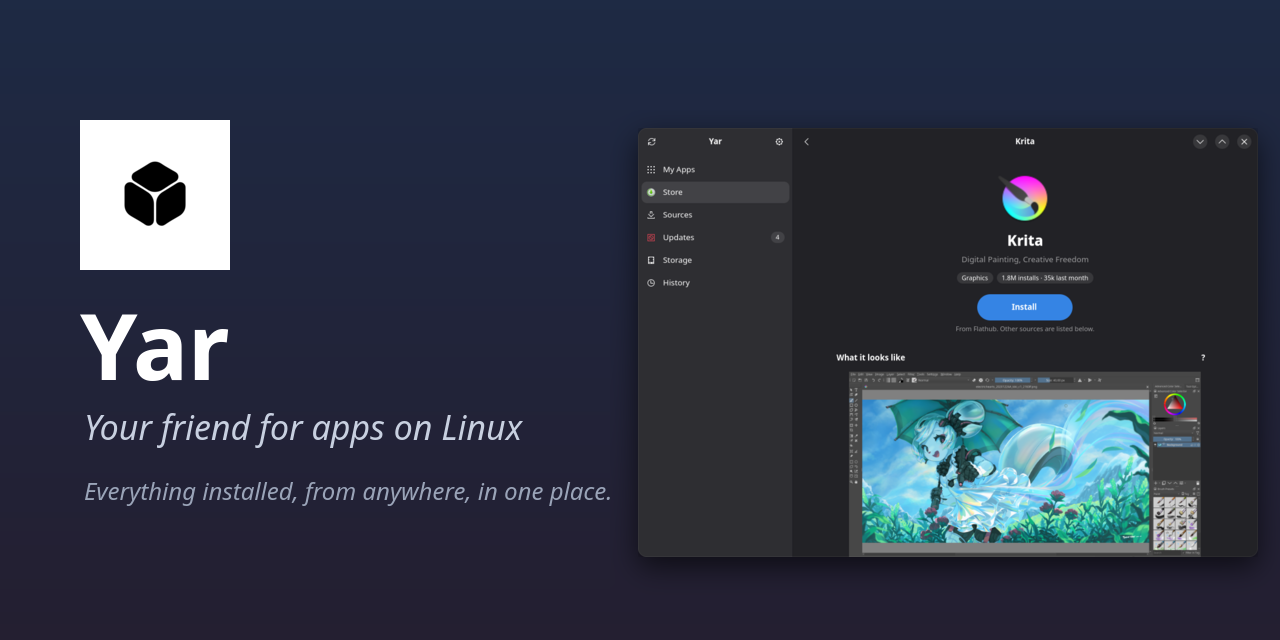
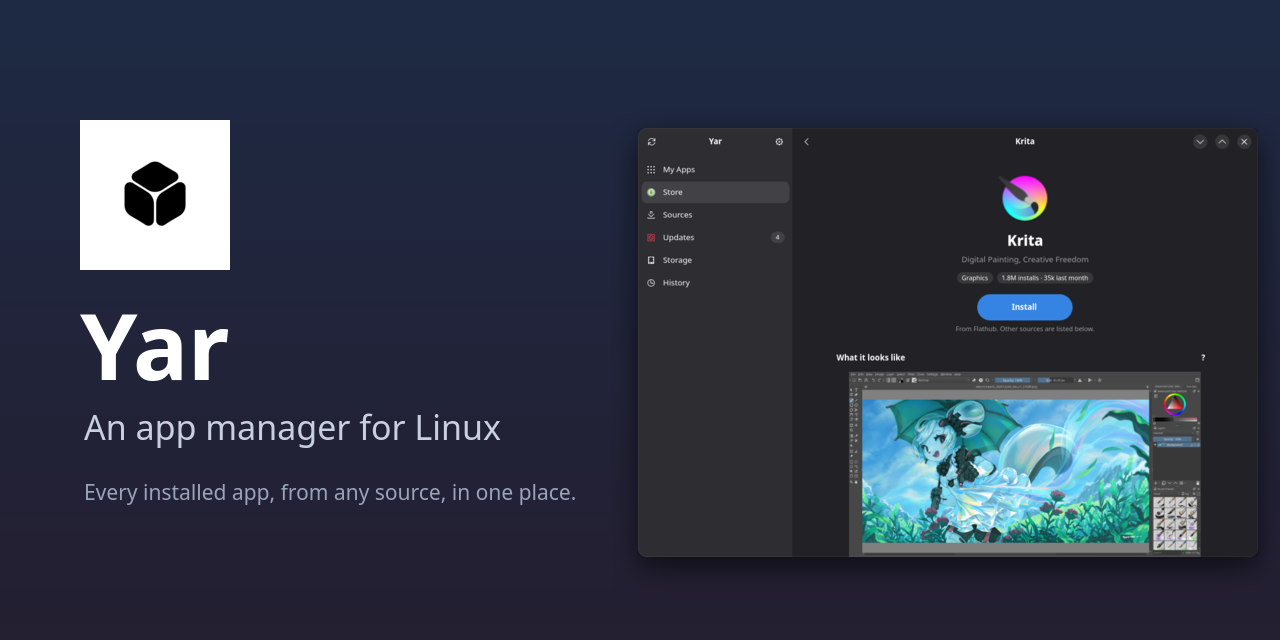
README about using Yar; no slogan or name story
The README now says briefly what Yar is for, then how it is used, how
to install it, where it works and how it works. The explanation of the
name and the "friend" slogan are gone from the README, the store
description, the settings and the link-preview picture; the
description is plain instead.

Changed region(s): [[0.0625, 0.75, 0.4688, 0.7812], [0.0625, 0.6562, 0.4062, 0.6875]]

diff --git a/src/Presentation/Yar.Gtk/Shell/SettingsDialog.cs b/src/Presentation/Yar.Gtk/Shell/SettingsDialog.cs
@@ -98,7 +98,7 @@ internal static class SettingsDialog
         var version = Adw.ActionRow.New();
         version.UseMarkup = false;
         version.Title = T.F("Yar {0}", AppIdentity.Version);
-        version.Subtitle = T._("Your friend for apps on Linux. Free software under the GPL, version 3 or later.");
+        version.Subtitle = T._("An app manager for Linux. Free software under the GPL, version 3 or later.");
         version.AddPrefix(Gtk.Image.NewFromIconName(AppIdentity.Id));
         about.Add(version);
         page.Add(about);

diff --git a/README.md b/README.md
@@ -1,10 +1,10 @@
 <div align="center">
 
-<img src="assets/cube_logo.svg" width="96" alt="Yar's logo: a cube">
+<img src="assets/cube_logo.svg" width="96" alt="Yar logo">
 
 # Yar
 
-**Your friend for apps on Linux.**
+**An app manager for Linux: every installed app, from any source, in one place.**
 
 [![CI](https://github.com/mirinio/yar/actions/workflows/ci.yml/badge.svg)](https://github.com/mirinio/yar/actions/workflows/ci.yml)
 [![Release](https://img.shields.io/github/v/release/mirinio/yar?include_prereleases)](https://github.com/mirinio/yar/releases)
@@ -13,31 +13,13 @@
 
 </div>
 
-On Linux, apps come from many places: your distribution, Flathub, the Snap Store, or a file
-you downloaded from a website. Each is managed differently, and after a while nobody knows
-what is installed where, or how to get rid of it cleanly.
-
-**Yar** puts all of it in one friendly place. It is made for people coming from Windows who
-want to see their apps, install and remove them, and understand what is going on, in plain
-words.
+On Linux, apps come from several places: the distribution's packages, Flatpak, Snap, and files
+downloaded from websites. Each is managed with a different tool. Yar shows them together and
+lets you install, update and remove them from one window, with a preview before every change.
 
 <p align="center">
-  <img src="docs/demo.gif" alt="Yar: browsing the Store, the preview before installing, progress, and the history" width="880">
+  <img src="docs/demo.gif" alt="Browsing the Store, the preview before installing, the progress bar and the history" width="880">
 </p>
-
-## Why Yar
-
-- **Everything, from anywhere, in one list.** Distribution packages, Flatpak, Snap, AppImages
-  and apps you unpacked yourself, each with where it came from, where it lives and what it may reach.
-- **Downloaded apps, done properly.** Drop an AppImage, an archive or a package on the window:
-  Yar checks it without running it, sets it up with a menu entry, and can remove it cleanly
-  later, because it wrote down what it created.
-- **Nothing happens by surprise.** Every install, removal and update shows a preview first,
-  and the history can undo most changes.
-- **Honest, plain language.** Yar explains terms a newcomer may not know, and says so when
-  something is risky, like an app that can read all your files.
-
-## Screenshots
 
 <table>
 <tr>
@@ -45,10 +27,10 @@ words.
 
 <picture>
   <source media="(prefers-color-scheme: dark)" srcset="docs/screenshots/my-apps-dark.png">
-  <img src="docs/screenshots/my-apps-light.png" alt="My Apps: every installed app, wherever it came from">
+  <img src="docs/screenshots/my-apps-light.png" alt="My Apps: every installed app, grouped by where it came from">
 </picture>
 
-**My Apps**: everything installed, wherever it came from.
+**My Apps**: everything installed, grouped by source.
 </td>
 <td width="50%">
 
@@ -57,96 +39,98 @@ words.
   <img src="docs/screenshots/store-app-light.png" alt="An app in the Store with its sources and an Install button">
 </picture>
 
-**Store**: each app once, with every source that offers it.
+**Store**: one entry per app, with every source that offers it.
 </td>
 </tr>
 <tr>
-<td>
+<td width="50%">
 
 <picture>
   <source media="(prefers-color-scheme: dark)" srcset="docs/screenshots/install-preview-dark.png">
   <img src="docs/screenshots/install-preview-light.png" alt="The preview before installing, with a warning about broad access">
 </picture>
 
-**Preview**: what comes along, how big it is, what to know.
+**Preview**: what will be installed, its size and any warnings.
 </td>
-<td>
+<td width="50%">
 
 <picture>
   <source media="(prefers-color-scheme: dark)" srcset="docs/screenshots/add-app-dark.png">
-  <img src="docs/screenshots/add-app-light.png" alt="Adding an app from a downloaded archive, with the hash check">
+  <img src="docs/screenshots/add-app-light.png" alt="Adding an app from a downloaded archive">
 </picture>
 
-**Add an app**: from a file or a link, checked first.
+**Add an app**: from a downloaded file or a link.
 </td>
 </tr>
 <tr>
-<td>
+<td width="50%">
 
 <picture>
   <source media="(prefers-color-scheme: dark)" srcset="docs/screenshots/history-dark.png">
   <img src="docs/screenshots/history-light.png" alt="The history of changes, with Undo">
 </picture>
 
-**History**: everything Yar changed, with Undo.
+**History**: every change made through Yar, with Undo.
 </td>
-<td>
+<td width="50%">
 
 <picture>
   <source media="(prefers-color-scheme: dark)" srcset="docs/screenshots/updates-dark.png">
   <img src="docs/screenshots/updates-light.png" alt="Waiting updates, one at a time or all at once">
 </picture>
 
-**Updates**: one app, your apps, or everything.
+**Updates**: one app, all apps, or everything.
 </td>
 </tr>
 </table>
 
-## What it does
+## Using Yar
 
-- **My Apps**: every app in your app menu, split into "from sources" and "installed myself",
-  with category tags and search. Each app's page shows where it came from, its version and
-  size, where its files and data are, and what it may reach on your computer.
-- **Store**: browse and search everything your sources offer, with pictures, ratings,
-  reviews and install counts. An app offered by several sources is listed once, with the
-  differences explained and one suggested.
-- **Install, update and remove** Flatpak apps and your distribution's packages. Removing keeps
-  an app's data unless you say otherwise, and then it goes to the Trash.
-- **Add an app you downloaded**: AppImage, single program, zip or tar archive, RPM or Debian
-  package, Flatpak file, or a download link. You can adjust the name, picture, folder and
-  taskbar pin, and compare the file with the hash its publisher states.
-- **Updates**: what is waiting, with security fixes marked; update one app, your apps, or everything.
-- **History**: every change, with Undo where that is possible.
-- **Sources**: understand, add and switch where your apps come from, with how well Yar knows each one.
-- **Storage**: disks, unused space, and a picture of what your apps take, with their data.
+**See what is installed.** *My Apps* lists every app in your app menu, grouped by where it
+came from. Search by name or by category. An app's page shows its version and size, where
+its files and data are, and what it is allowed to access (for Flatpak apps).
 
-## Safe by design
+**Install an app.** Search the *Store*, open the app and press **Install**. If several sources
+offer it, each is listed with how it differs; the suggested one is marked. A preview shows
+everything that will be installed, the download and disk size, and warnings such as access
+to all your files. Nothing happens until you confirm. System packages ask for your password
+in your system's own dialog.
 
-Yar manages the software on your computer, so it is careful:
+**Add an app you downloaded.** Drop the file on the window, use **Add an app…** in *My Apps* or
+the *Store*, or paste a download link. Supported: AppImage, single programs, zip and tar
+archives, `.rpm` / `.deb` packages, `.flatpakref` / `.flatpak`. Yar identifies the file
+without running it and checks that it can run on this computer. In the preview you can change
+the name, picture, install folder and the program that starts it, add it to the app menu or
+taskbar, and paste the publisher's checksum to verify the file. AppImages and archives go to
+`~/Applications` by default (changeable in the settings) and get an app-menu entry; packages
+go through your package manager, Flatpak files through Flatpak.
 
-- It **never runs as root**. Your system asks for your password in its own dialog when needed.
-- It **never runs a downloaded file** to find out what it is.
-- It **moves to the Trash** instead of deleting, and refuses a removal that would take a vital
-  part of your system along.
-- It **shows a preview before every change** and carries out exactly what it showed.
-- It sends **nothing about you** anywhere. Online extras (ratings, pictures) can be switched off.
+**Update.** The *Updates* tab lists waiting updates with security fixes marked. Update one
+app, all apps, or everything; each shows a preview first.
 
-More in [SECURITY.md](SECURITY.md).
+**Remove.** Press **Remove** on an app's page. Its settings and data are kept unless you choose
+to remove them too; removed data goes to the Trash. Apps added from a file are removed exactly,
+using the record Yar kept when it added them.
 
-## Try it
+**Undo.** *History* lists every change made through Yar. Most can be undone: an installed app
+is removed again, a removed one is reinstalled and its data restored from the Trash. Updates
+cannot be undone.
+
+**Sources and storage.** *Sources* shows where your apps come from, lets you add Flatpak
+sources and turn sources on or off. *Storage* shows your disks and how much space each app
+and its data take.
+
+## Install
 
 **From a release**: download `yar-<version>-linux-x64.tar.gz` from
-[Releases](https://github.com/mirinio/yar/releases), check it against the `.sha256` file next
+[Releases](https://github.com/mirinio/yar/releases) and check it against the `.sha256` file next
 to it, then:
 
 ```bash
 tar -xzf yar-*-linux-x64.tar.gz
 cd yar-*-linux-x64
-./install-local.sh        # for your user only, no password; ./uninstall-local.sh removes it again
+./install-local.sh        # installs for your user only, no password; ./uninstall-local.sh removes it
 ```
-
-Yar is then in your app menu. It needs **GTK 4.14+** and **libadwaita 1.5+**, which current
-distributions have.
 
 **From source**, with the .NET 10 SDK:
 
@@ -155,59 +139,69 @@ git clone https://github.com/mirinio/yar.git && cd yar
 dotnet run --project src/Presentation/Yar.Gtk
 ```
 
+Requirements: GTK 4.14 or newer and libadwaita 1.5 or newer.
+
 ## Where it works
 
 | | Status |
 |---|---|
-| Fedora 44 (KDE Plasma) | Developed and used here, app and command line |
-| Ubuntu 24.04 | Everything that changes the system tested in a container; the app window not yet tried |
-| openSUSE, Arch, other distributions | Not tried yet; Yar talks to PackageKit, so they may well work |
-| Snap | Apps are listed; installing and removing snaps is not supported yet |
-| Not yet tried on a real desktop | The system's password prompt, dropping a file with the mouse, pinning to the taskbar |
+| Fedora 44 (KDE Plasma) | Developed and used here |
+| Ubuntu 24.04 | Installing, removing, updating and adding apps tested in a container; the window itself not yet tried |
+| openSUSE, Arch, others | Not tried; Yar uses PackageKit, so they may work |
+| Snap | Snap apps are listed; installing and removing snaps is not supported yet |
+| Not yet tried on a real desktop | The system password prompt, dropping a file with the mouse, pinning to the taskbar |
 
-Tried it somewhere else? Please [tell us](https://github.com/mirinio/yar/issues).
+Reports from other distributions are welcome in the [issues](https://github.com/mirinio/yar/issues).
 
-## Status and roadmap
+## How it works
 
-Yar is young: **0.3.0** is the first public version. Next up are cleaning up what removed apps
-left behind, unused Flatpak runtimes and temporary files, through the same preview → Trash →
-undo path, and wider testing on other distributions. The [changelog](CHANGELOG.md) lists what
-changed in each version.
+- **Apps come from launchers.** Yar reads every app-menu entry (`.desktop` file) and asks each
+  backend which ones it owns: Flatpak, then Snap, then the distribution's packages; what is left
+  was installed by hand. This keeps libraries and command-line tools out of the list.
+- **Backends**: distribution packages through PackageKit over D-Bus (dnf, apt, zypper, pacman),
+  Flatpak through the `flatpak` command, Snap through snapd's socket. The Store reads the app
+  catalogs (AppStream) already on your computer.
+- **Every change is planned first.** The backend works out what a change involves (for packages,
+  a simulated transaction), Yar shows that plan, and carries out exactly that plan once you
+  confirm. Changes run one at a time and can be cancelled.
+- **Every change is recorded** in `~/.local/state/yar/history.jsonl`, which is what *History*
+  and Undo use.
+- **Downloaded files are never run** to inspect them. Archives are unpacked into a temporary
+  folder first, with checks against paths that leave the folder, links pointing outside, and
+  oversized content. For each added app Yar keeps a note of what it created, in
+  `~/.local/share/yar/apps`.
+- **Removing goes to the Trash**, and a removal that would take a vital system package with it
+  (kernel, systemd, the package manager, the desktop) is refused.
+- **Yar never runs as root.** Changes outside your home folder go through PackageKit or Flatpak,
+  which ask for your password themselves.
+- `yar-apps` is a command-line tool that does what the window does, for scripting and testing:
+  `yar-apps apps`, `yar-apps install <id>`, `yar-apps add <file>`, `yar-apps history` and more;
+  changes need `--yes`.
 
-## What goes over the internet
+More about safety in [SECURITY.md](SECURITY.md).
 
-All of it is behind one switch in the settings:
+### What goes over the internet
+
+All optional, behind one switch in the settings:
 
 | What | From | What Yar sends |
 |---|---|---|
-| Star ratings and reviews | odrs.gnome.org | For reviews: the app, your language, your distribution's name, a throwaway random ID |
+| Star ratings and reviews | odrs.gnome.org | For reviews: the app, your language, your distribution's name, a random ID |
 | Picks, trending, install counts, sizes, permissions | flathub.org | The app's ID |
-| Pictures of apps | dl.flathub.org, dl.fedoraproject.org, appstream.ubuntu.com, appstream.debian.org | The picture's address; no other servers are contacted for pictures |
-| New GitHub projects (only if switched on) | api.github.com | The programming languages you ticked; no account |
+| Pictures of apps | dl.flathub.org, dl.fedoraproject.org, appstream.ubuntu.com, appstream.debian.org | The picture's address |
+| New GitHub projects (off by default) | api.github.com | The programming languages you chose |
 
-A download link you paste yourself is fetched from wherever it points, over https only.
+A download link you paste is fetched from wherever it points, over https only.
 
-## How it is built
+## Contributing
 
-Yar is written in C# on .NET 10, with GTK 4 and libadwaita through
-[Gir.Core](https://gircore.github.io). It talks to PackageKit over D-Bus, so the same code
-covers dnf, apt, zypper and pacman, and to Flatpak and snapd directly. The code follows a
-hexagonal layout: a core that knows nothing about the desktop, one project per kind of
-software, and the app and the command-line tool `yar-apps` on top.
-[CONTRIBUTING.md](CONTRIBUTING.md) explains the layout, how to build and test, and the
-throwaway container in which installs are tried for real.
+[CONTRIBUTING.md](CONTRIBUTING.md) explains how the code is organised, how to build and test,
+and the throwaway container in which installs are tested for real. Yar is written in C# on
+.NET 10 with GTK 4 and libadwaita through [Gir.Core](https://gircore.github.io).
 
-## Made with an AI assistant
-
-Yar is written with Claude, Anthropic's AI assistant, under its maintainer's direction, and
-checked with automated tests and real installs in throwaway containers. [AI.md](AI.md) says
-who does what and how the work is checked.
-
-## The name
-
-*Yar* (یار) is Persian for "friend", and *yaar* means "buddy" in Hindi and Urdu: an app that
-looks after your apps, so you don't have to know what a repository is.
+Yar is developed with the help of an AI assistant (Claude, by Anthropic). [AI.md](AI.md)
+describes how the work is checked.
 
 ## License
 
-Yar is free software under the [GNU General Public License, version 3 or later](LICENSE).
+GPL-3.0-or-later. See [LICENSE](LICENSE).
